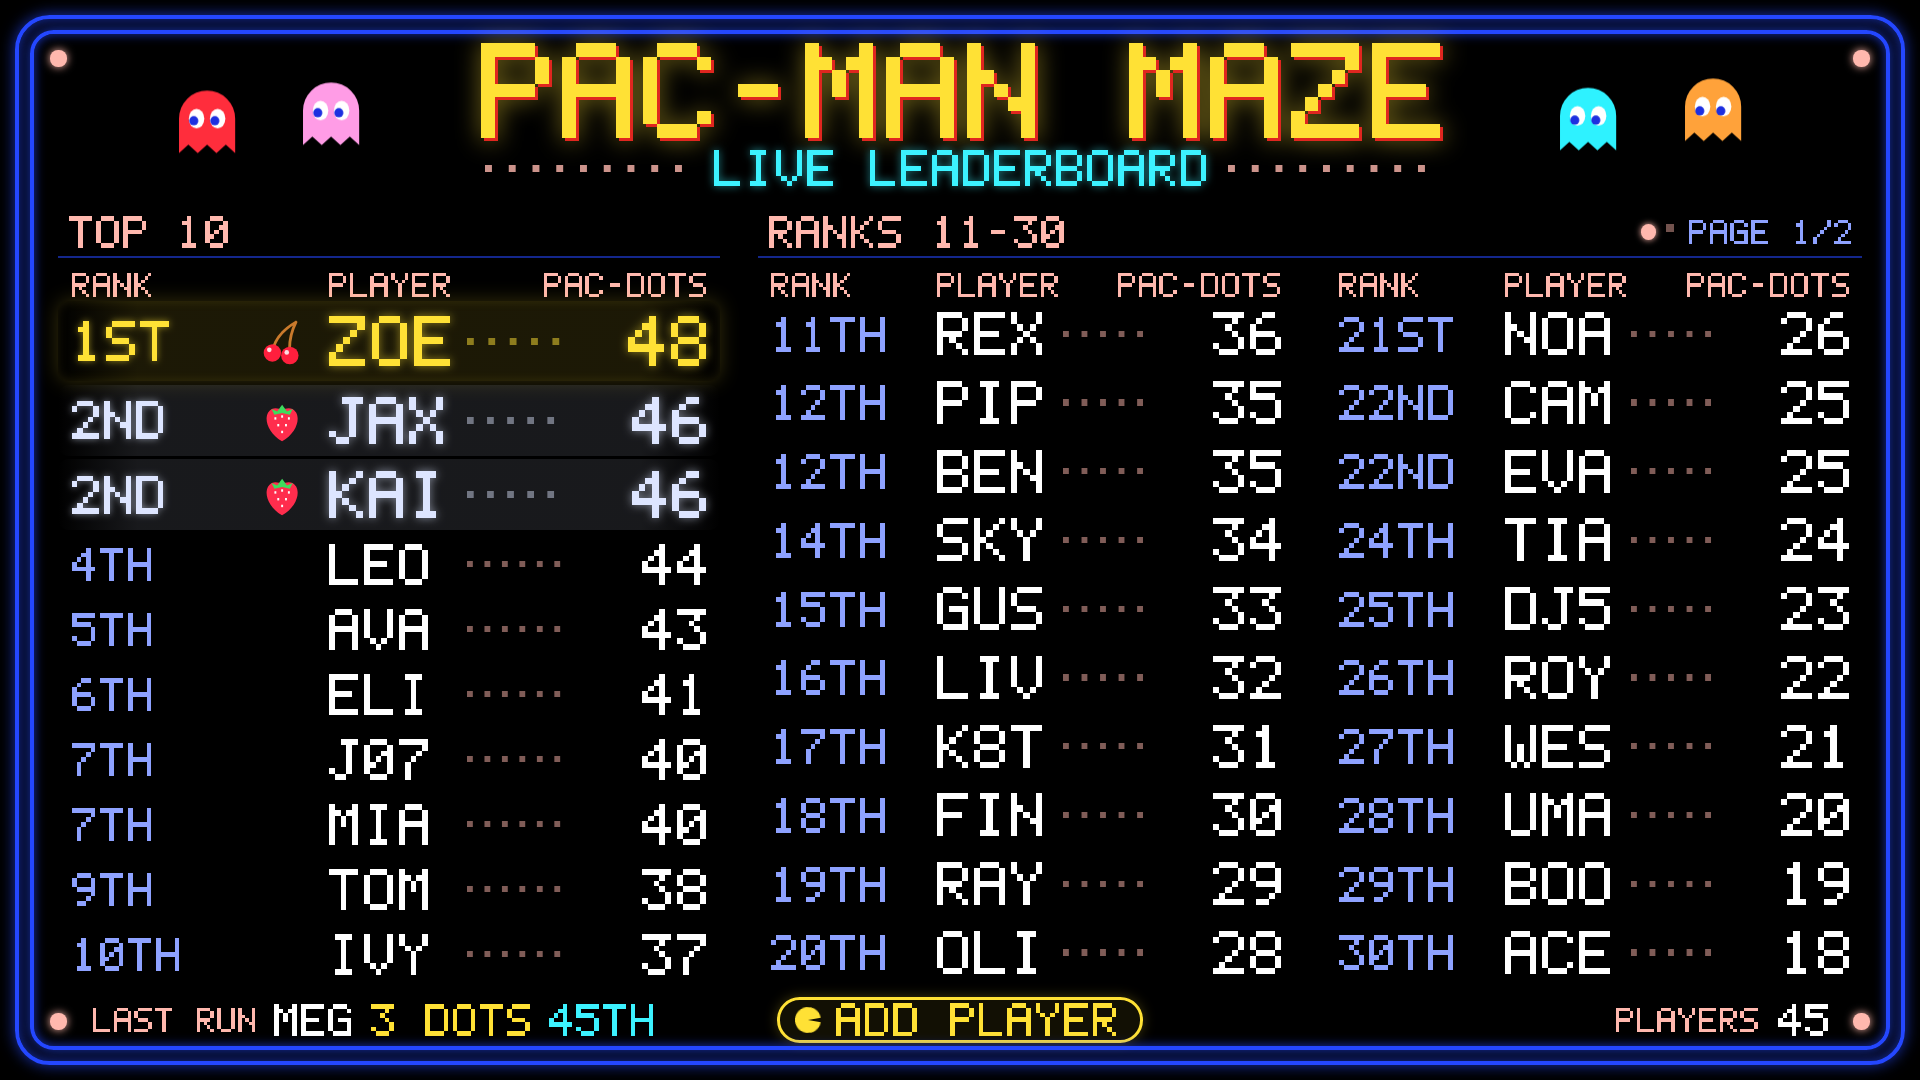
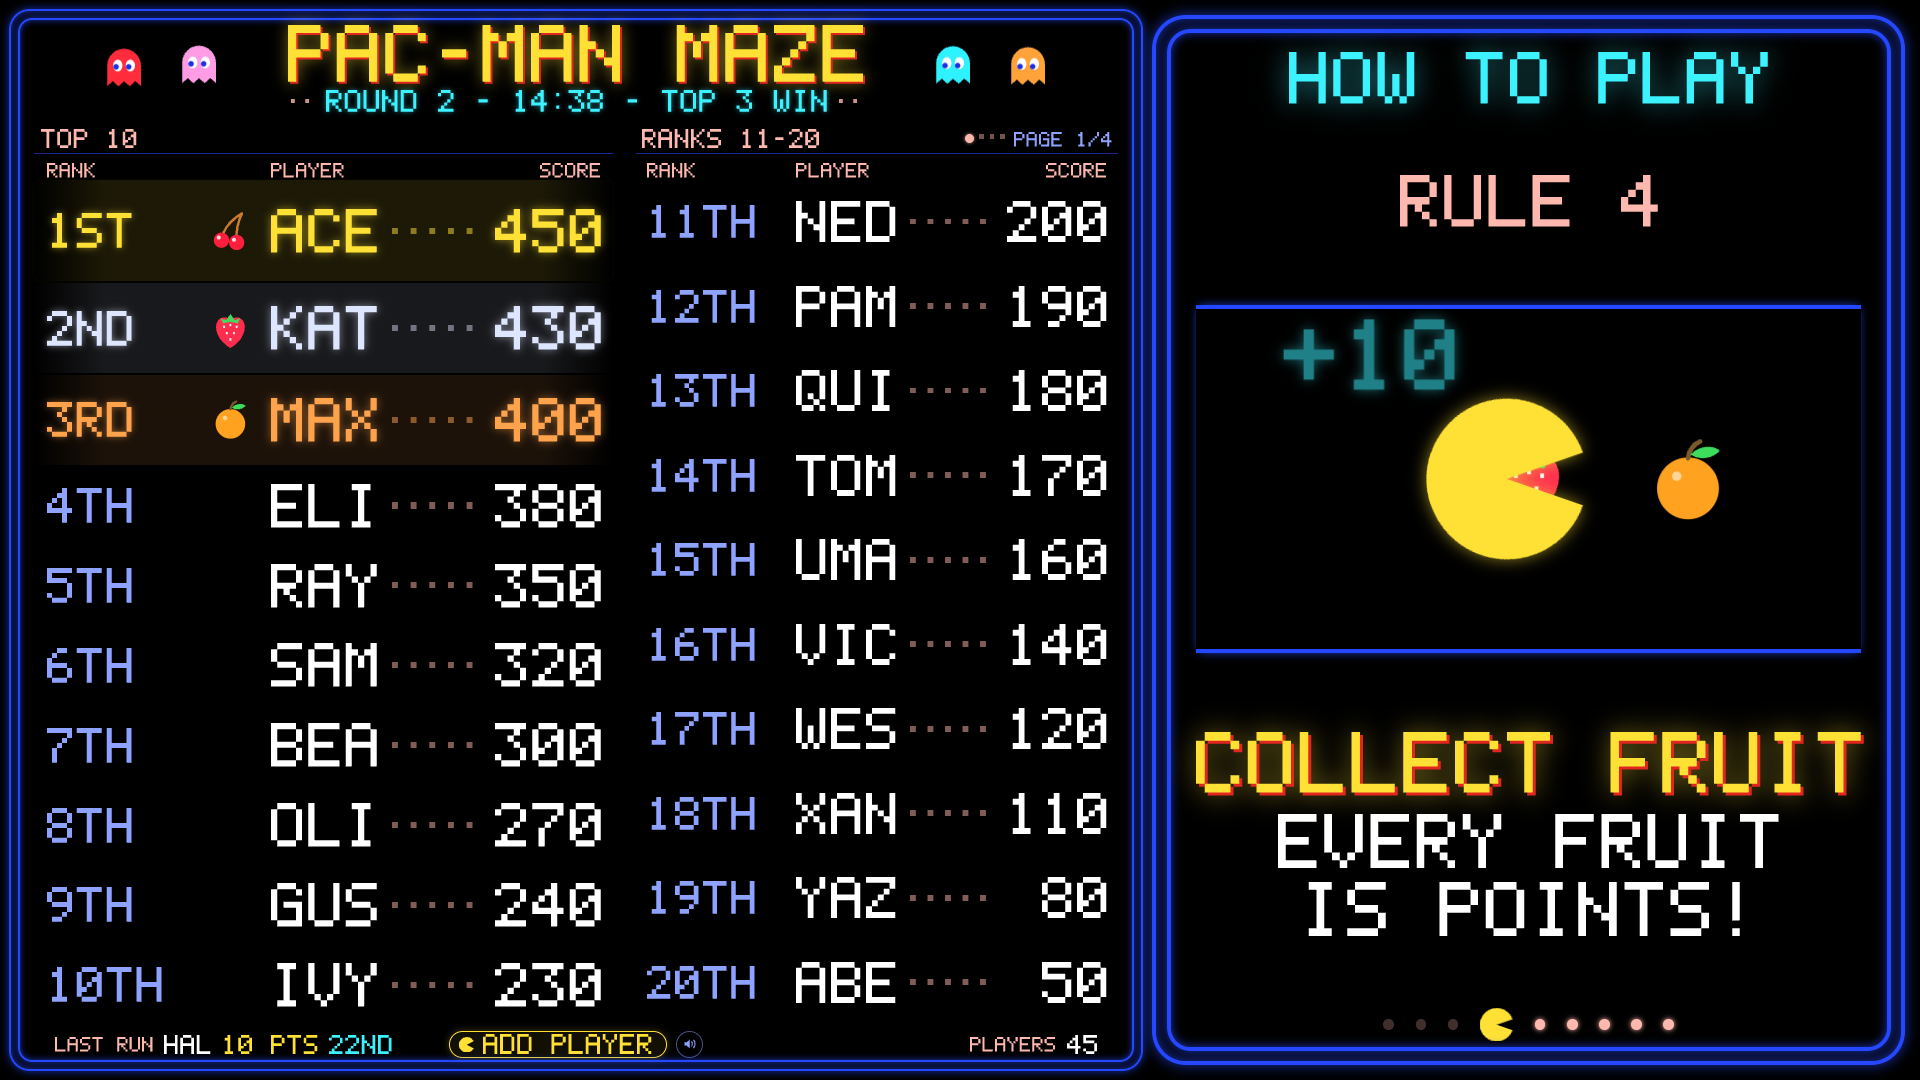
Refresh the README screenshots; refuse to end a round that hasn't started
The README still showed the board from before the rules panel, fruit
scoring and prize rounds. All six old screenshots are retaken from a
demo board at 1920x1080 (the split TV with the round clock, spotlight,
new high score, the + ADD PLAYER calculator, staff entry with the round
panel, Manage scores), and two are new: the round-winners screen and the
nine rules. The TV section's text described the old full-width layout
(ranks 11-30, three columns); it now matches the split screen.

Taking those screenshots turned up a bug: ending a round before its
first score counted it anyway and skipped a round number. The staff
button was already disabled then; the server now refuses too (409).

diff --git a/apps/leaderboard/test/rounds.test.ts b/apps/leaderboard/test/rounds.test.ts
@@ -101,6 +101,21 @@ describe('prize rounds', () => {
     }
   });
 
+  test("staff can't end a round that hasn't started", async () => {
+    const f = makeFixture();
+    const app = createApp({ service: f.service });
+    try {
+      await new Promise<void>((resolve) => app.server.listen(0, '127.0.0.1', resolve));
+      const base = `http://127.0.0.1:${(app.server.address() as AddressInfo).port}`;
+      const res = await fetch(`${base}/api/round/end`, { method: 'POST' });
+      assert.equal(res.status, 409);
+      assert.equal(f.service.roundStatus().number, 1, 'no round number is skipped');
+    } finally {
+      await app.close();
+      f.cleanup();
+    }
+  });
+
   test('the server ends an overdue round on its own and tells every screen', async () => {
     const f = makeFixture();
     // A round that should have ended while the server was off.

diff --git a/apps/leaderboard/src/http.ts b/apps/leaderboard/src/http.ts
@@ -284,7 +284,10 @@ export function createApp({ service, publicDir = path.join(APP_ROOT, 'public'), 
       return sendJson(res, 200, { entry });
     }
     if (method === 'POST' && pathname === '/api/round/end') {
-      if (!service.roundStatus().enabled) throw new HttpError(409, 'rounds_off', 'Prize rounds are switched off.');
+      const round = service.roundStatus();
+      if (!round.enabled) throw new HttpError(409, 'rounds_off', 'Prize rounds are switched off.');
+      // A round only starts with its first score; ending one that hasn't would skip a round number.
+      if (round.endsAt === null) throw new HttpError(409, 'round_not_started', `Round ${round.number} hasn't started yet — it starts with its first score.`);
       finishRound('ended by staff');
       return sendJson(res, 200, { round: service.roundStatus() });
     }

diff --git a/README.md b/README.md
@@ -7,7 +7,7 @@ Kids run the maze collecting fruit bean bags and, in power mode, tagging ghosts.
 tap in the fruit they brought back and how many ghosts they tagged (the app adds up the score), the child picks 3-character initials (`MAX`, `J07`, …), staff type them in, and the TV
 updates instantly — jumping straight to that kid's spot on the board so they can grab a photo.
 
-![The TV leaderboard: top 10 pinned on the left, ranks 11–30 on the right, auto-paging through everyone else](docs/screenshots/tv-board.png)
+![The TV: the leaderboard on the left (top 10 pinned, ranks 11–20 paging, the prize round clock in the subtitle) and the how-to-play rules on the right](docs/screenshots/tv-board.png)
 
 | Screen | Address | Who uses it |
 | --- | --- | --- |
@@ -69,13 +69,13 @@ Leave that Terminal window open. Stop the app with **Ctrl+C** (scores are alread
 - **Esc** closes the panel. The panel has **Undo** for the last player you added, and a
   **Manage scores** link.
 
-![The + ADD PLAYER panel on the TV](docs/screenshots/tv-add-player.png)
+![The + ADD PLAYER panel on the TV: initials, the fruit and ghosts tapped in, and the score added up](docs/screenshots/tv-add-player.png)
 
 **From a tablet or laptop** on the same Wi-Fi, open the “On this Wi-Fi” address printed at startup
 (e.g. `http://192.168.1.20:3000/admin`). It has the same entry form plus a list of recent entries with
 **Show on TV**, **Edit** and **Delete** buttons.
 
-![Staff score entry at /admin](docs/screenshots/staff-entry.png)
+![Staff score entry at /admin: the fruit-and-ghost calculator, the prize round clock and last round's winners with candy tick boxes](docs/screenshots/staff-entry.png)
 
 ### 4. Open the leaderboard screen
 
@@ -111,7 +111,7 @@ refreshes, closed tabs, app restarts and Mac restarts.
 For an off-site copy, drag the `backups/` folder (or the whole `data/` folder while the app is stopped)
 to a USB stick.
 
-![Manage scores at /admin/settings: edit, delete, Show on TV, timer, blocked initials, backup, CSV, reset](docs/screenshots/manage-scores.png)
+![Manage scores at /admin/settings: every score with Show on TV, Edit and Delete, beside the settings cards (timer, run timer, scoring, prize rounds, how to play, music…)](docs/screenshots/manage-scores.png)
 
 ---
 
@@ -119,12 +119,12 @@ to a USB stick.
 
 | Spotlight — the TV jumps to each new player | NEW HIGH SCORE! celebration |
 | --- | --- |
-| ![SAM is 21st of 46, highlighted on page 1 of the lower ranks](docs/screenshots/tv-spotlight.png) | ![NEW HIGH SCORE overlay with Pac-Man chasing frightened ghosts](docs/screenshots/tv-new-high-score.png) |
+| ![XAN is 19th of 46, highlighted in the paging column](docs/screenshots/tv-spotlight.png) | ![NEW HIGH SCORE overlay with Pac-Man chasing frightened ghosts](docs/screenshots/tv-new-high-score.png) |
 
 - **Top 10 always pinned** on the left, with 1st–3rd in gold/silver/bronze with fruit bonuses. Tied
   scores share a rank (1st, 1st, 3rd).
-- **Everyone else** fills the columns to the right (ranks 11–30). With more than 30 players, Pac-Man
-  **eats the page** every 10 seconds to flip to 31–50, 51–70, and so on — with a page indicator.
+- **Everyone else** fills the column beside it (ranks 11–20). With more players, Pac-Man **eats the
+  page** every 10 seconds to flip to 21–30, 31–40, and so on — with a page indicator.
 - **Spotlight:** when a score is added the TV jumps to that player's page, highlights their row, and
   shows a banner like **`★ SAM IS 20TH OF 57! ★`**. It holds for 20 seconds — photo time. Missed it?
   Press **Show on TV** next to any score on the staff screens to bring it back.
@@ -133,7 +133,9 @@ to a USB stick.
   night does.
 - The footer shows the **last run** and total **players**. A small “RECONNECTING…” note appears only if
   the TV loses the server for more than 5 seconds; it reconnects by itself.
-- The layout adapts to the screen shape (3 columns on a 16:9 TV, 2 on 4:3) and text auto-sizes to fit.
+- The **how-to-play rules** take the right-hand side of the screen (40% by default — see
+  [How to play](#how-to-play-beside-the-leaderboard)). The leaderboard fits whatever space is left: two
+  columns at any rules width, three if the rules are switched off. Text auto-sizes to fit.
 
 ## Run timer
 
@@ -204,6 +206,8 @@ repository never redistributes them.
 
 ### Prize rounds: candy for the top players
 
+![ROUND 5 WINNERS! with the top three, candy, and SEE STAFF FOR YOUR CANDY!](docs/screenshots/tv-round-winners.png)
+
 The board runs in short rounds rather than all night, so kids who are still around can actually
 win. With the defaults, **every 15 minutes the top 3 win candy** and the board starts fresh:
 
@@ -242,6 +246,8 @@ Ghosts double like the arcade — **20, 40, 80, 160** for the 1st to 4th ghost, 
 after that — so two ghosts are worth 60. The TV's rules show these same values.
 
 ### How to play, beside the leaderboard
+
+<img src="docs/screenshots/tv-rules.png" alt="The nine rules, each caught mid-animation" width="560">
 
 The TV splits in two: the leaderboard on the left, and on the right the rules for the kids waiting
 in line, one at a time — **enter the maze, avoid the ghosts, collect the fruit, activate the power orb,
